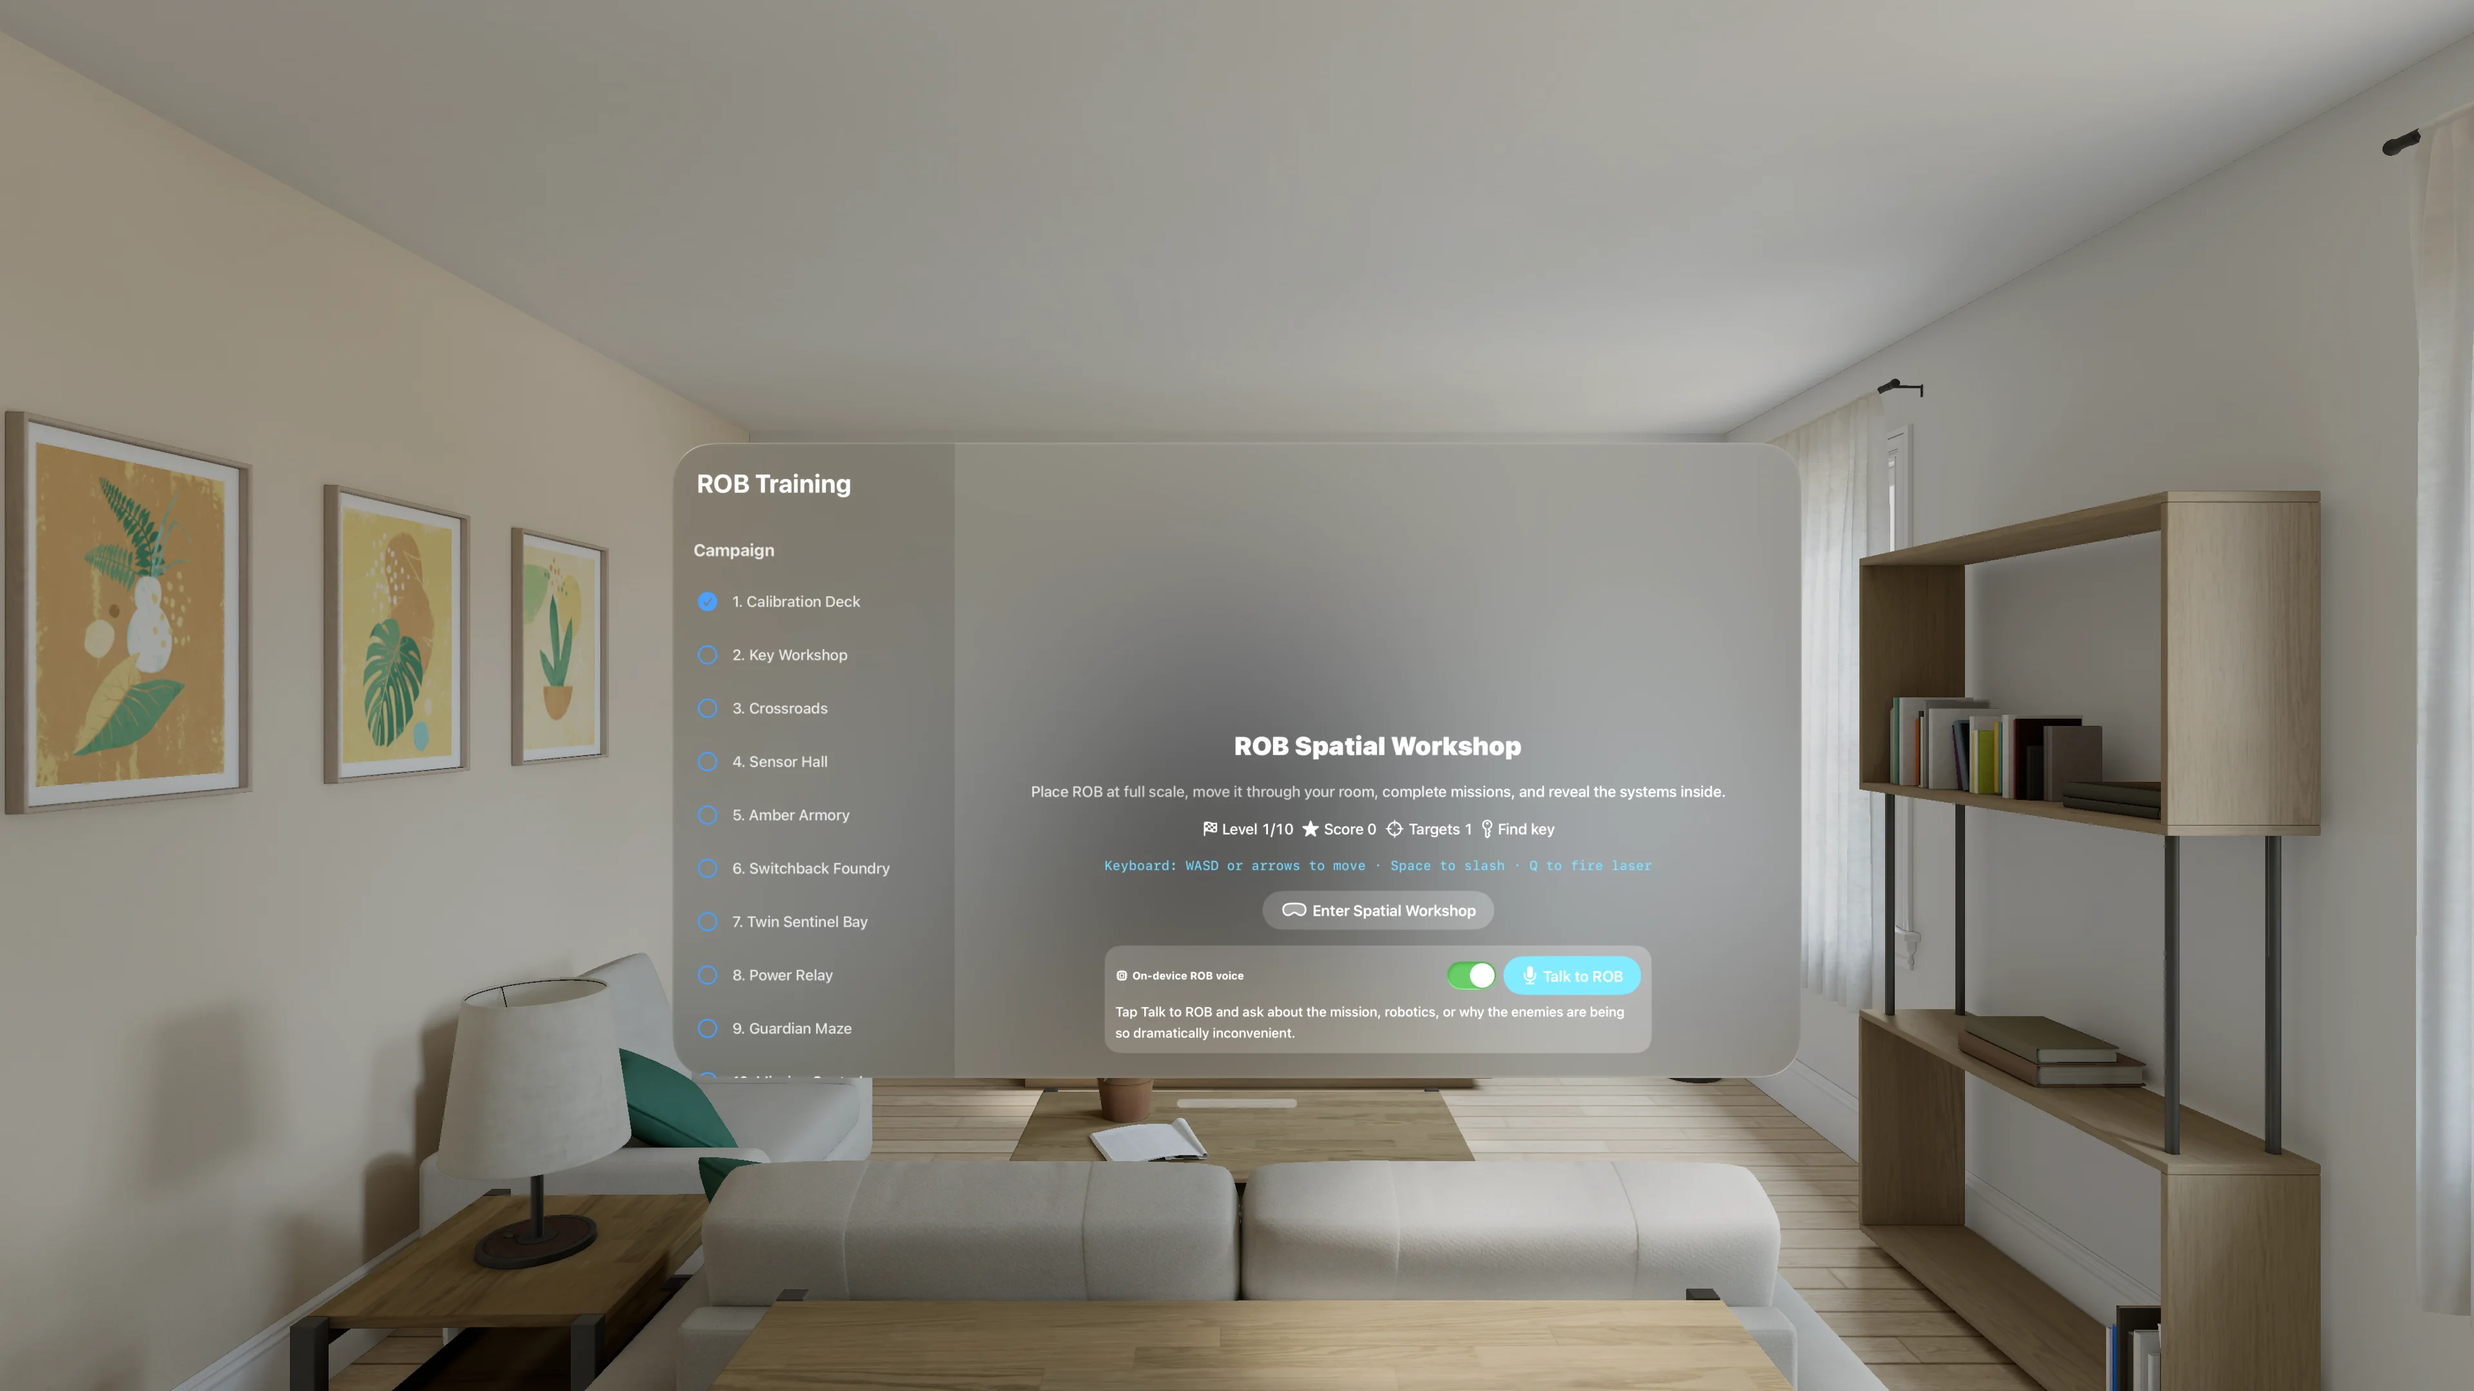
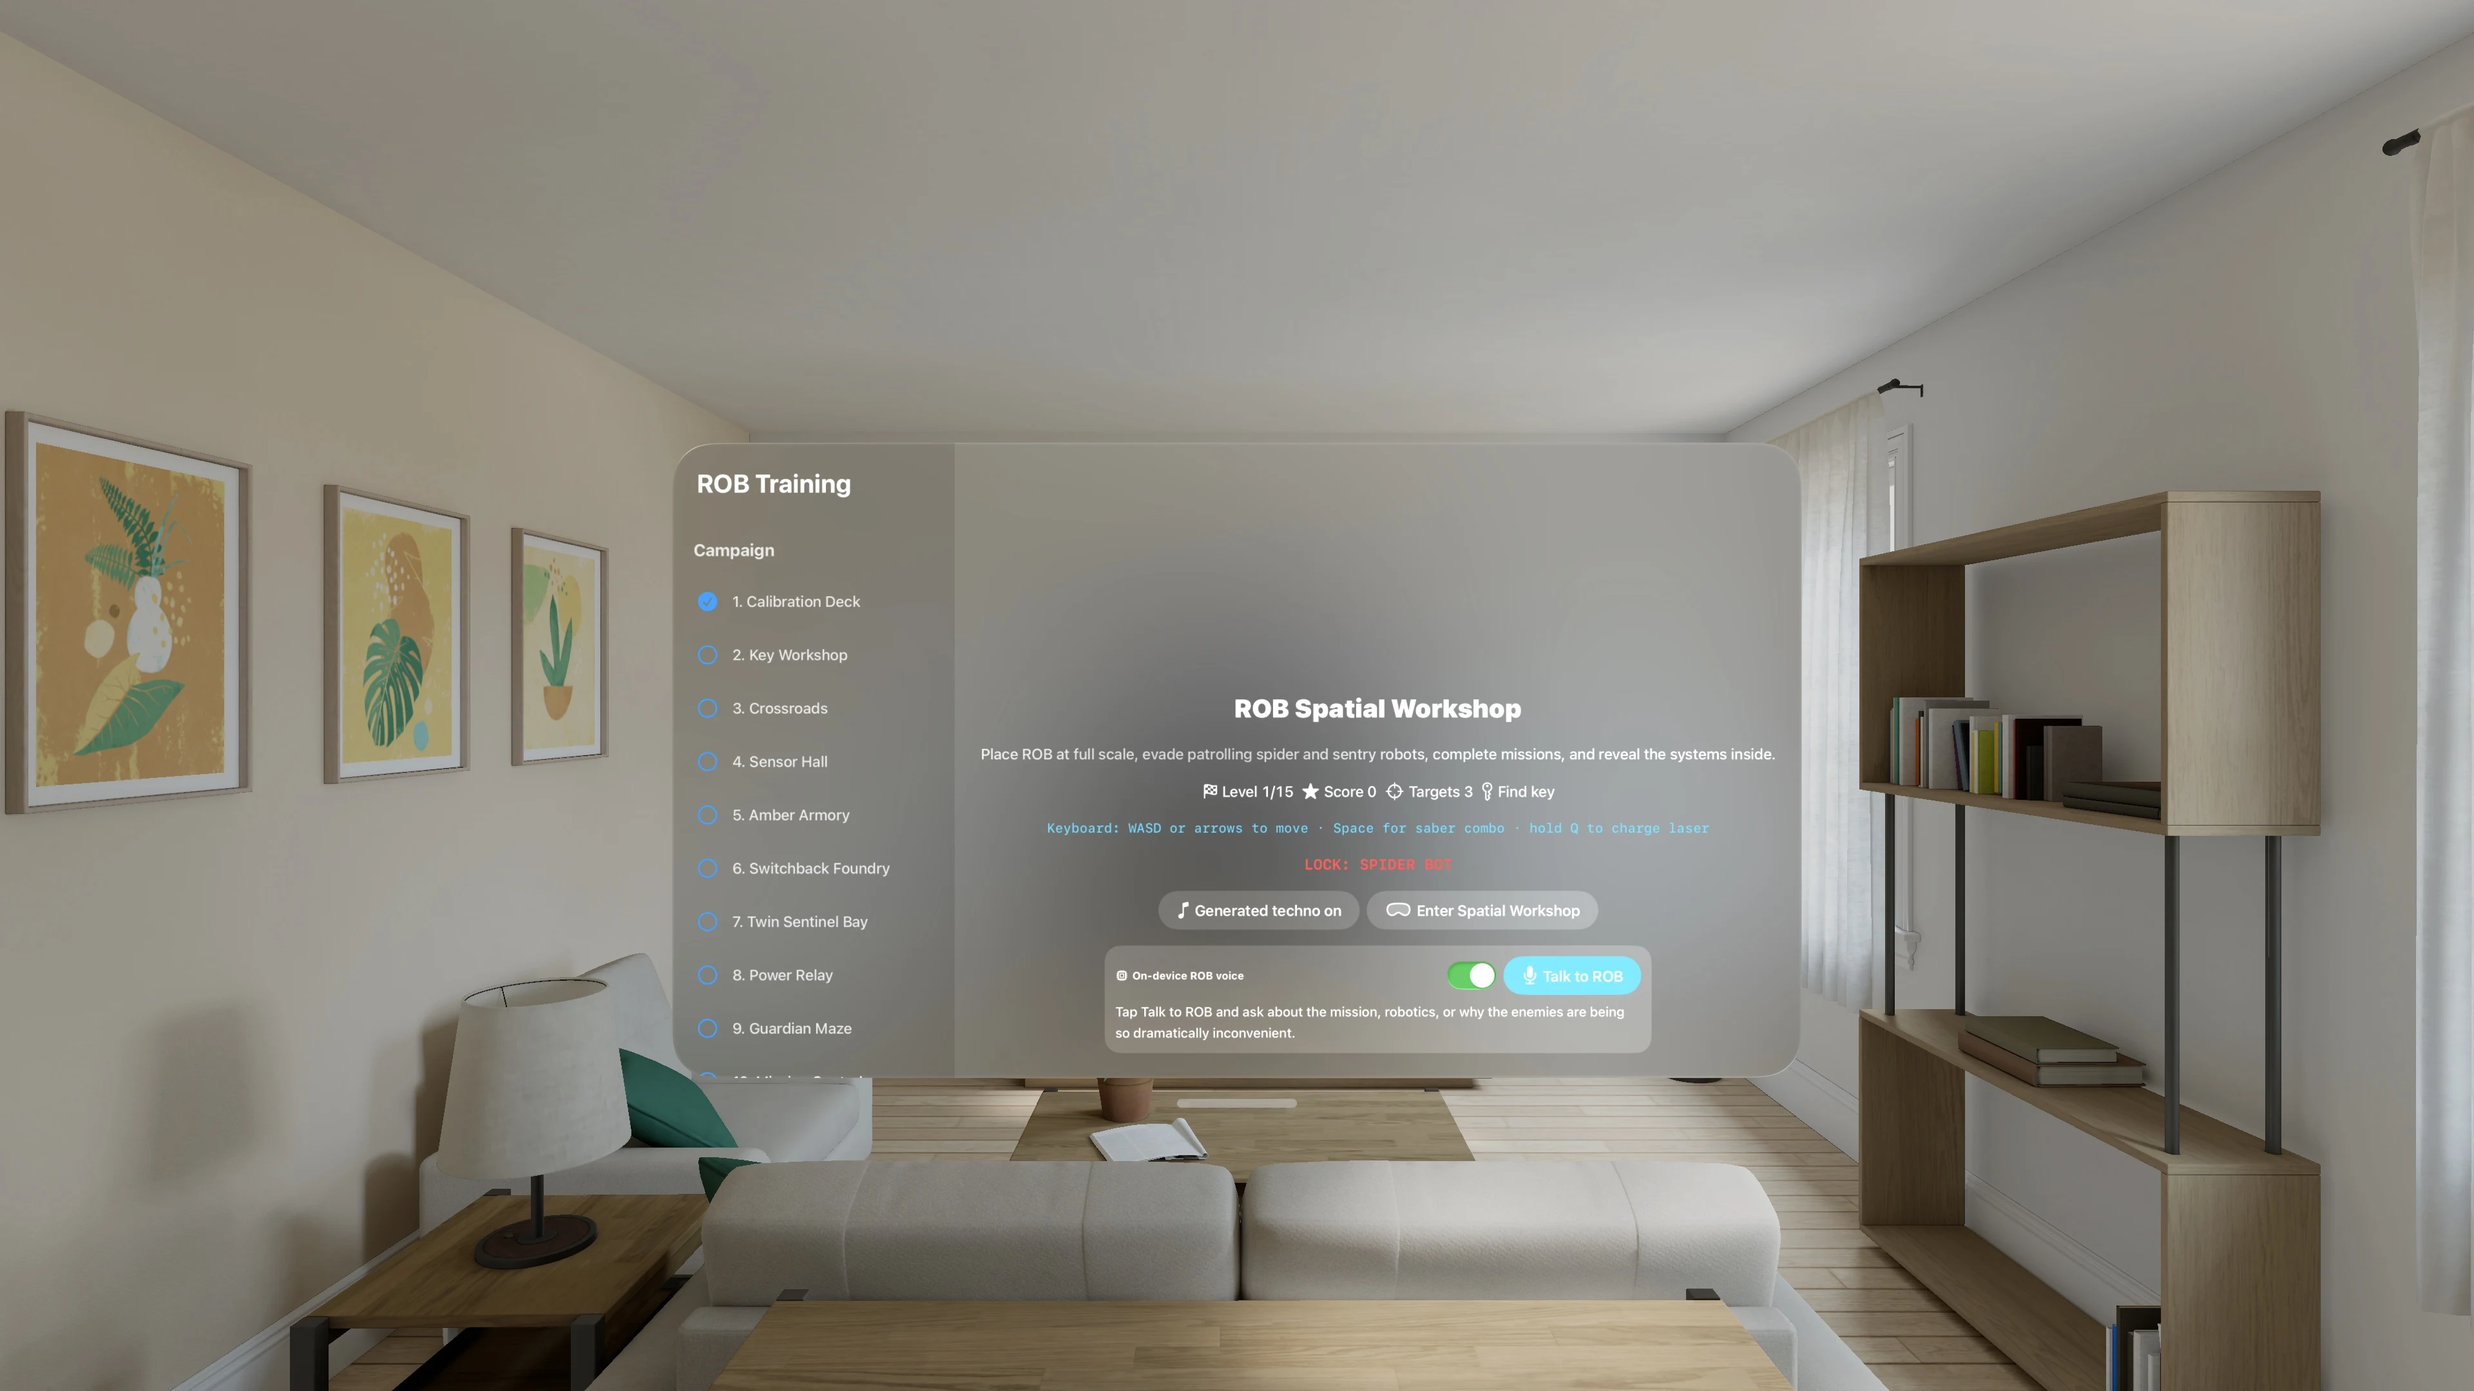
Rename ROB training enemy as sentry robot

Changed region(s): [[0.4062, 0.4963, 0.7188, 0.6824]]

diff --git a/assets/js/rob-simulator.js b/assets/js/rob-simulator.js
@@ -64,7 +64,7 @@ if (root) {
     if (cue === 'shutdown') { noiseHit(now, .38, .048, 1100); [1180, 910, 640, 370].forEach((frequency, i) => tone(frequency, now + i * .085, .14, i % 2 ? 'square' : 'sawtooth', .03, 2600)); return; }
     [0, .05, .105, .17, .245].forEach((offset, i) => { noiseHit(now + offset, .04, .026 + i * .004, 3000 + i * 620); tone(980 + i * 310, now + offset, .055, i % 2 ? 'square' : 'sawtooth', .02, 5600); });
   };
-  const playDalekFax = () => { if (!soundEnabled) return; const context = ensureAudioContext(); if (!context) return; const now = context.currentTime + .01; [720, 1280, 860, 1640, 620].forEach((frequency, i) => tone(frequency, now + i * .055, .09, i % 2 ? 'square' : 'sawtooth', .035, 2600)); noiseHit(now, .32, .026, 900); };
+  const playDalekSentry = () => { if (!soundEnabled) return; const context = ensureAudioContext(); if (!context) return; const now = context.currentTime + .01; [720, 1280, 860, 1640, 620].forEach((frequency, i) => tone(frequency, now + i * .055, .09, i % 2 ? 'square' : 'sawtooth', .035, 2600)); noiseHit(now, .32, .026, 900); };
   const playLaserShot = (charge) => { if (!soundEnabled) return; if (charge < .12) { playSound('laser'); return; } const context = ensureAudioContext(); if (!context) return; const now = context.currentTime + .01, pitch = 310 - charge * 190, duration = .16 + charge * .34; tone(pitch, now, duration, 'sawtooth', .08 + charge * .08, 950 - charge * 420); tone(pitch * .49, now, duration * 1.08, 'sine', .09 + charge * .09, 620); noiseHit(now, .08 + charge * .08, .04 + charge * .045, 180 + charge * 120); };
   const speakDalek = () => { if (!soundEnabled || !('speechSynthesis' in window) || elapsed - lastDalekSpeech < 3.2) return; lastDalekSpeech = elapsed; window.speechSynthesis.cancel(); const warning = new SpeechSynthesisUtterance('Exterminate!'); warning.rate = .72; warning.pitch = .28; warning.volume = .78; const voice = window.speechSynthesis.getVoices().find((candidate) => /^en[-_]/i.test(candidate.lang)); if (voice) warning.voice = voice; window.speechSynthesis.speak(warning); };
   const startMusic = () => { if (!musicEnabled || !ensureAudioContext()) return; if (!musicTimer) { scheduleTechno(); musicTimer = setInterval(scheduleTechno, 1000); } };
@@ -135,7 +135,7 @@ if (root) {
     level.enemies.forEach((spec, enemyIndex) => {
       const enemy = enemies.find((candidate) => !candidate.visible && candidate.userData.type === spec[0]);
       if (!enemy) return;
-      enemy.visible = true; enemy.userData.alive = true; enemy.userData.health = level.health; enemy.userData.maxHealth = level.health; enemy.userData.name = spec[0] === 'spider' ? 'Spider bot' : 'Dalek-style fax robot';
+      enemy.visible = true; enemy.userData.alive = true; enemy.userData.health = level.health; enemy.userData.maxHealth = level.health; enemy.userData.name = spec[0] === 'spider' ? 'Spider bot' : 'Dalek-style sentry robot';
       enemy.position.set(spec[1], 0, spec[2]); enemy.userData.origin = enemy.position.clone(); enemy.userData.patrolPhase = enemyIndex * 2.17; enemy.userData.nextAttack = elapsed + 1.6 + enemyIndex * .65; enemy.userData.nextSkitterSound = elapsed + .8 + enemyIndex * .38; enemy.userData.lungeUntil = 0;
     });
     Object.values(objectives).forEach((objective) => objective.classList.remove('is-complete')); objectives.cells.querySelector('[data-objective-text]').textContent = `Collect ${level.cells.length} energy cells`; objectives.enemies.querySelector('[data-objective-text]').textContent = `Disable ${level.enemies.length} hostile robots`;
@@ -155,7 +155,7 @@ if (root) {
   const collision = (p, heading = robot.rotation.y) => { const { right, length } = robotAxes(heading), extentX = ROBOT_HALF_WIDTH * Math.abs(right.x) + ROBOT_HALF_LENGTH * Math.abs(length.x), extentZ = ROBOT_HALF_WIDTH * Math.abs(right.z) + ROBOT_HALF_LENGTH * Math.abs(length.z), door = levels[levelIndex].door, doorBox = door && { x: door[0], z: door[1], w: door[2] / 2, d: door[3] / 2 }; return Math.abs(p.x) + extentX > ARENA_HALF_WIDTH - ARENA_CLEARANCE || Math.abs(p.z) + extentZ > ARENA_HALF_DEPTH - ARENA_CLEARANCE || obstacles.some((o) => robotHitsBox(p, heading, o)) || (!doorOpen && doorBox && robotHitsBox(p, heading, doorBox)); };
   const enemyCollision = (p, radius) => Math.abs(p.x) > ARENA_HALF_WIDTH - .75 || Math.abs(p.z) > ARENA_HALF_DEPTH - .75 || obstacles.some((o) => circleHitsBox(p, o, radius)) || (!doorOpen && levels[levelIndex].door && circleHitsBox(p, { x: levels[levelIndex].door[0], z: levels[levelIndex].door[1], w: levels[levelIndex].door[2] / 2, d: levels[levelIndex].door[3] / 2 }, radius));
   const moveEnemy = (enemy, target, speed, dt) => { const offset = target.clone().sub(enemy.position); offset.y = 0; const distance = offset.length(); if (distance < .04) return false; const step = Math.min(distance, speed * dt), direction = offset.normalize(), proposedX = enemy.position.clone(), proposedZ = enemy.position.clone(), radius = enemy.userData.type === 'spider' ? .72 : .64; proposedX.x += direction.x * step; proposedZ.z += direction.z * step; let moved = false; if (!enemyCollision(proposedX, radius)) { enemy.position.x = proposedX.x; moved = true; } if (!enemyCollision(proposedZ, radius)) { enemy.position.z = proposedZ.z; moved = true; } if (!moved) enemy.userData.patrolPhase += .9; return moved; };
-  const damageEnemy = (hit, weapon, amount = 1) => { hit.userData.health -= amount; score += 50 * amount; if (hit.userData.type === 'spider') playSpiderSound(hit.userData.health <= 0 ? 'shutdown' : 'impact'); say(`${hit.userData.name} hit by ${weapon} — ${Math.max(0, hit.userData.health)} shields remain.`); if (hit.userData.health <= 0) { hit.userData.alive = false; hit.visible = false; score += 300; if (laserLock === hit) laserLock = undefined; if (hit.userData.type !== 'spider') playDalekFax(); say(`${hit.userData.name} disabled by ${weapon}. Route reopened.`); if (enemies.every((e) => !e.userData.alive)) mark('enemies', 'Training-room defense complete.', 400); } };
+  const damageEnemy = (hit, weapon, amount = 1) => { hit.userData.health -= amount; score += 50 * amount; if (hit.userData.type === 'spider') playSpiderSound(hit.userData.health <= 0 ? 'shutdown' : 'impact'); say(`${hit.userData.name} hit by ${weapon} — ${Math.max(0, hit.userData.health)} shields remain.`); if (hit.userData.health <= 0) { hit.userData.alive = false; hit.visible = false; score += 300; if (laserLock === hit) laserLock = undefined; if (hit.userData.type !== 'spider') playDalekSentry(); say(`${hit.userData.name} disabled by ${weapon}. Route reopened.`); if (enemies.every((e) => !e.userData.alive)) mark('enemies', 'Training-room defense complete.', 400); } };
   const combatNow = () => performance.now() / 1000;
   const laserChargeAmount = () => laserChargeStarted === undefined ? 0 : THREE.MathUtils.clamp((combatNow() - laserChargeStarted) / 1.5, 0, 1);
   const scanForLaserTarget = () => {
@@ -202,13 +202,13 @@ if (root) {
         else if (distance < 3.6) target = enemy.position.clone().addScaledVector(toRobot.clone().normalize(), -2.5);
         else { const orbit = new THREE.Vector3(-toRobot.z, 0, toRobot.x).normalize().multiplyScalar(Math.sin(enemy.userData.patrolPhase) < 0 ? -1.6 : 1.6); target = enemy.position.clone().add(orbit); }
         speed = .58 + level.speed * 1.25;
-        if (elapsed >= enemy.userData.nextAttack && distance < 12) { enemy.userData.nextAttack = elapsed + Math.max(1.85, 3.9 - levelIndex * .09); fireEnemyLaser(enemy); playDalekFax(); speakDalek(); say('Dalek-style fax robot: “Exterminate!” Incoming laser — keep moving.'); }
+        if (elapsed >= enemy.userData.nextAttack && distance < 12) { enemy.userData.nextAttack = elapsed + Math.max(1.85, 3.9 - levelIndex * .09); fireEnemyLaser(enemy); playDalekSentry(); speakDalek(); say('Dalek-style sentry robot: “Exterminate!” Incoming laser — keep moving.'); }
       }
       const facing = (aggressive ? robot.position : target).clone().sub(enemy.position); facing.y = 0; if (facing.lengthSq() > .001) enemy.rotation.y = Math.atan2(-facing.x, -facing.z);
       moveEnemy(enemy, target, speed, dt); enemy.position.y = isSpider ? Math.sin(elapsed * 10 + i) * .055 : Math.sin(elapsed * 2.4 + i) * .028;
-      if (robotHitsCircle(robot.position, robot.rotation.y, enemy.position, isSpider ? .78 : .7)) { if (isSpider) playSpiderSound('impact'); else playDalekFax(); restartAfterDamage(isSpider ? 'Spider bot lunge' : 'Dalek-style fax collision'); return; }
+      if (robotHitsCircle(robot.position, robot.rotation.y, enemy.position, isSpider ? .78 : .7)) { if (isSpider) playSpiderSound('impact'); else playDalekSentry(); restartAfterDamage(isSpider ? 'Spider bot lunge' : 'Dalek-style sentry collision'); return; }
     }
-    for (let i = enemyBolts.length - 1; i >= 0; i -= 1) { const bolt = enemyBolts[i]; bolt.position.addScaledVector(bolt.userData.velocity, dt); if (bolt.position.distanceTo(robot.position.clone().add(new THREE.Vector3(0, .85, 0))) < .72) { playDalekFax(); restartAfterDamage('Dalek-style fax laser'); return; } if (enemyCollision(bolt.position, .08)) { scene.remove(bolt); enemyBolts.splice(i, 1); } }
+    for (let i = enemyBolts.length - 1; i >= 0; i -= 1) { const bolt = enemyBolts[i]; bolt.position.addScaledVector(bolt.userData.velocity, dt); if (bolt.position.distanceTo(robot.position.clone().add(new THREE.Vector3(0, .85, 0))) < .72) { playDalekSentry(); restartAfterDamage('Dalek-style sentry laser'); return; } if (enemyCollision(bolt.position, .08)) { scene.remove(bolt); enemyBolts.splice(i, 1); } }
     for (let i = bolts.length - 1; i >= 0; i -= 1) { const b = bolts[i]; b.position.addScaledVector(b.userData.velocity, dt); const hit = enemies.find((e) => e.userData.alive && b.position.distanceTo(e.position.clone().add(new THREE.Vector3(0, 1, 0))) < 1.15 + (b.userData.charge || 0) * .55); if (hit) { damageEnemy(hit, b.userData.charge > .72 ? 'charged shoulder laser' : 'shoulder laser', b.userData.damage || 1); scene.remove(b); bolts.splice(i, 1); } else if (b.position.distanceTo(robot.position) > 42) { scene.remove(b); bolts.splice(i, 1); } }
     if (!gateDone && robot.position.distanceTo(gate.position) < 1.55) { gateDone = true; mark('gate', 'Calibration complete. Hostile tracking is fully active.', 250); } if (keyObject.visible && robot.position.distanceTo(keyObject.position) < 1) { hasKey = true; keyObject.visible = false; score += 250; playSound('pickup'); say('Key secured. Bring it to the locked door.'); } if (!doorOpen && level.door && robot.position.distanceTo(doorObject.position) < 2.1) { if (hasKey) { doorOpen = true; doorObject.visible = false; score += 300; playSound('pickup'); say('Key accepted. Door open.'); } else say('Door locked — find the glowing key first.'); } cells.forEach((c) => { if (c.visible && !c.userData.got && robot.position.distanceTo(c.position) < 1) { c.userData.got = true; c.visible = false; cellCount += 1; score += 150; playSound('pickup'); say(`Energy cell ${cellCount} of ${level.cells.length} secured.`); if (cellCount === level.cells.length) mark('cells', 'All cells secured. Dock after the room is safe.', 300); } }); if (gateDone && cellCount === level.cells.length && enemies.every((e) => !e.userData.alive) && doorOpen && robot.position.distanceTo(dock.position) < 1.15) { const timeBonus = Math.max(0, level.bonus - Math.floor(levelElapsed) * 10); mark('dock', `Level cleared! Time bonus: ${timeBonus}.`, 500 + timeBonus); playSound('level-complete'); running = false; levelComplete = true; ui.start.hidden = false; if (levelIndex < levels.length - 1) ui.start.textContent = `Continue to level ${levelIndex + 2}`; else { complete = true; ui.start.textContent = 'Play campaign again'; root.dispatchEvent(new CustomEvent('rob:campaign-complete', { detail: { score, durationSeconds: Math.round(elapsed), levelsCompleted: levels.length } })); say(`Campaign complete with ${score.toLocaleString()} points. Add your call sign!`); } } };
   const fullscreenElement = () => document.fullscreenElement || document.webkitFullscreenElement;

diff --git a/layouts/rob-simulator/single.html b/layouts/rob-simulator/single.html
@@ -1,6 +1,6 @@
 {{ define "main" }}
 <main id="main" class="rob-sim" data-rob-simulator data-audio-base="{{ "audio/rob-simulator/" | relURL }}">
-  <header class="rob-sim__intro"><div><p class="rob-sim__eyebrow">Three.js tank-drive combat challenge</p><h1>ROB Tank Training</h1><p>Command ROB’s animated tri-wheel treads, evade patrolling spider and fax robots, defend the training room, collect energy cells, and dock at Mission Control. This browser simulation never connects to the real robot.</p></div><img src="{{ "images/rob-simulator/rob-training-key-art.png" | relURL }}" alt="ROB with the spider and fax robot inside a futuristic robotics training room" width="1536" height="864"></header>
+  <header class="rob-sim__intro"><div><p class="rob-sim__eyebrow">Three.js tank-drive combat challenge</p><h1>ROB Tank Training</h1><p>Command ROB’s animated tri-wheel treads, evade patrolling spider and Dalek-style sentry robots, defend the training room, collect energy cells, and dock at Mission Control. This browser simulation never connects to the real robot.</p></div><img src="{{ "images/rob-simulator/rob-training-key-art.png" | relURL }}" alt="ROB with the spider and Dalek-style sentry robot inside a futuristic robotics training room" width="1536" height="864"></header>
   <section class="rob-sim__shell" data-sim-shell aria-label="ROB tank training game">
     <div class="rob-sim__viewport" data-sim-viewport tabindex="0">
       <canvas data-sim-canvas aria-label="3D training room containing ROB, hostile robots, obstacles, energy cells, and a docking station"></canvas>
